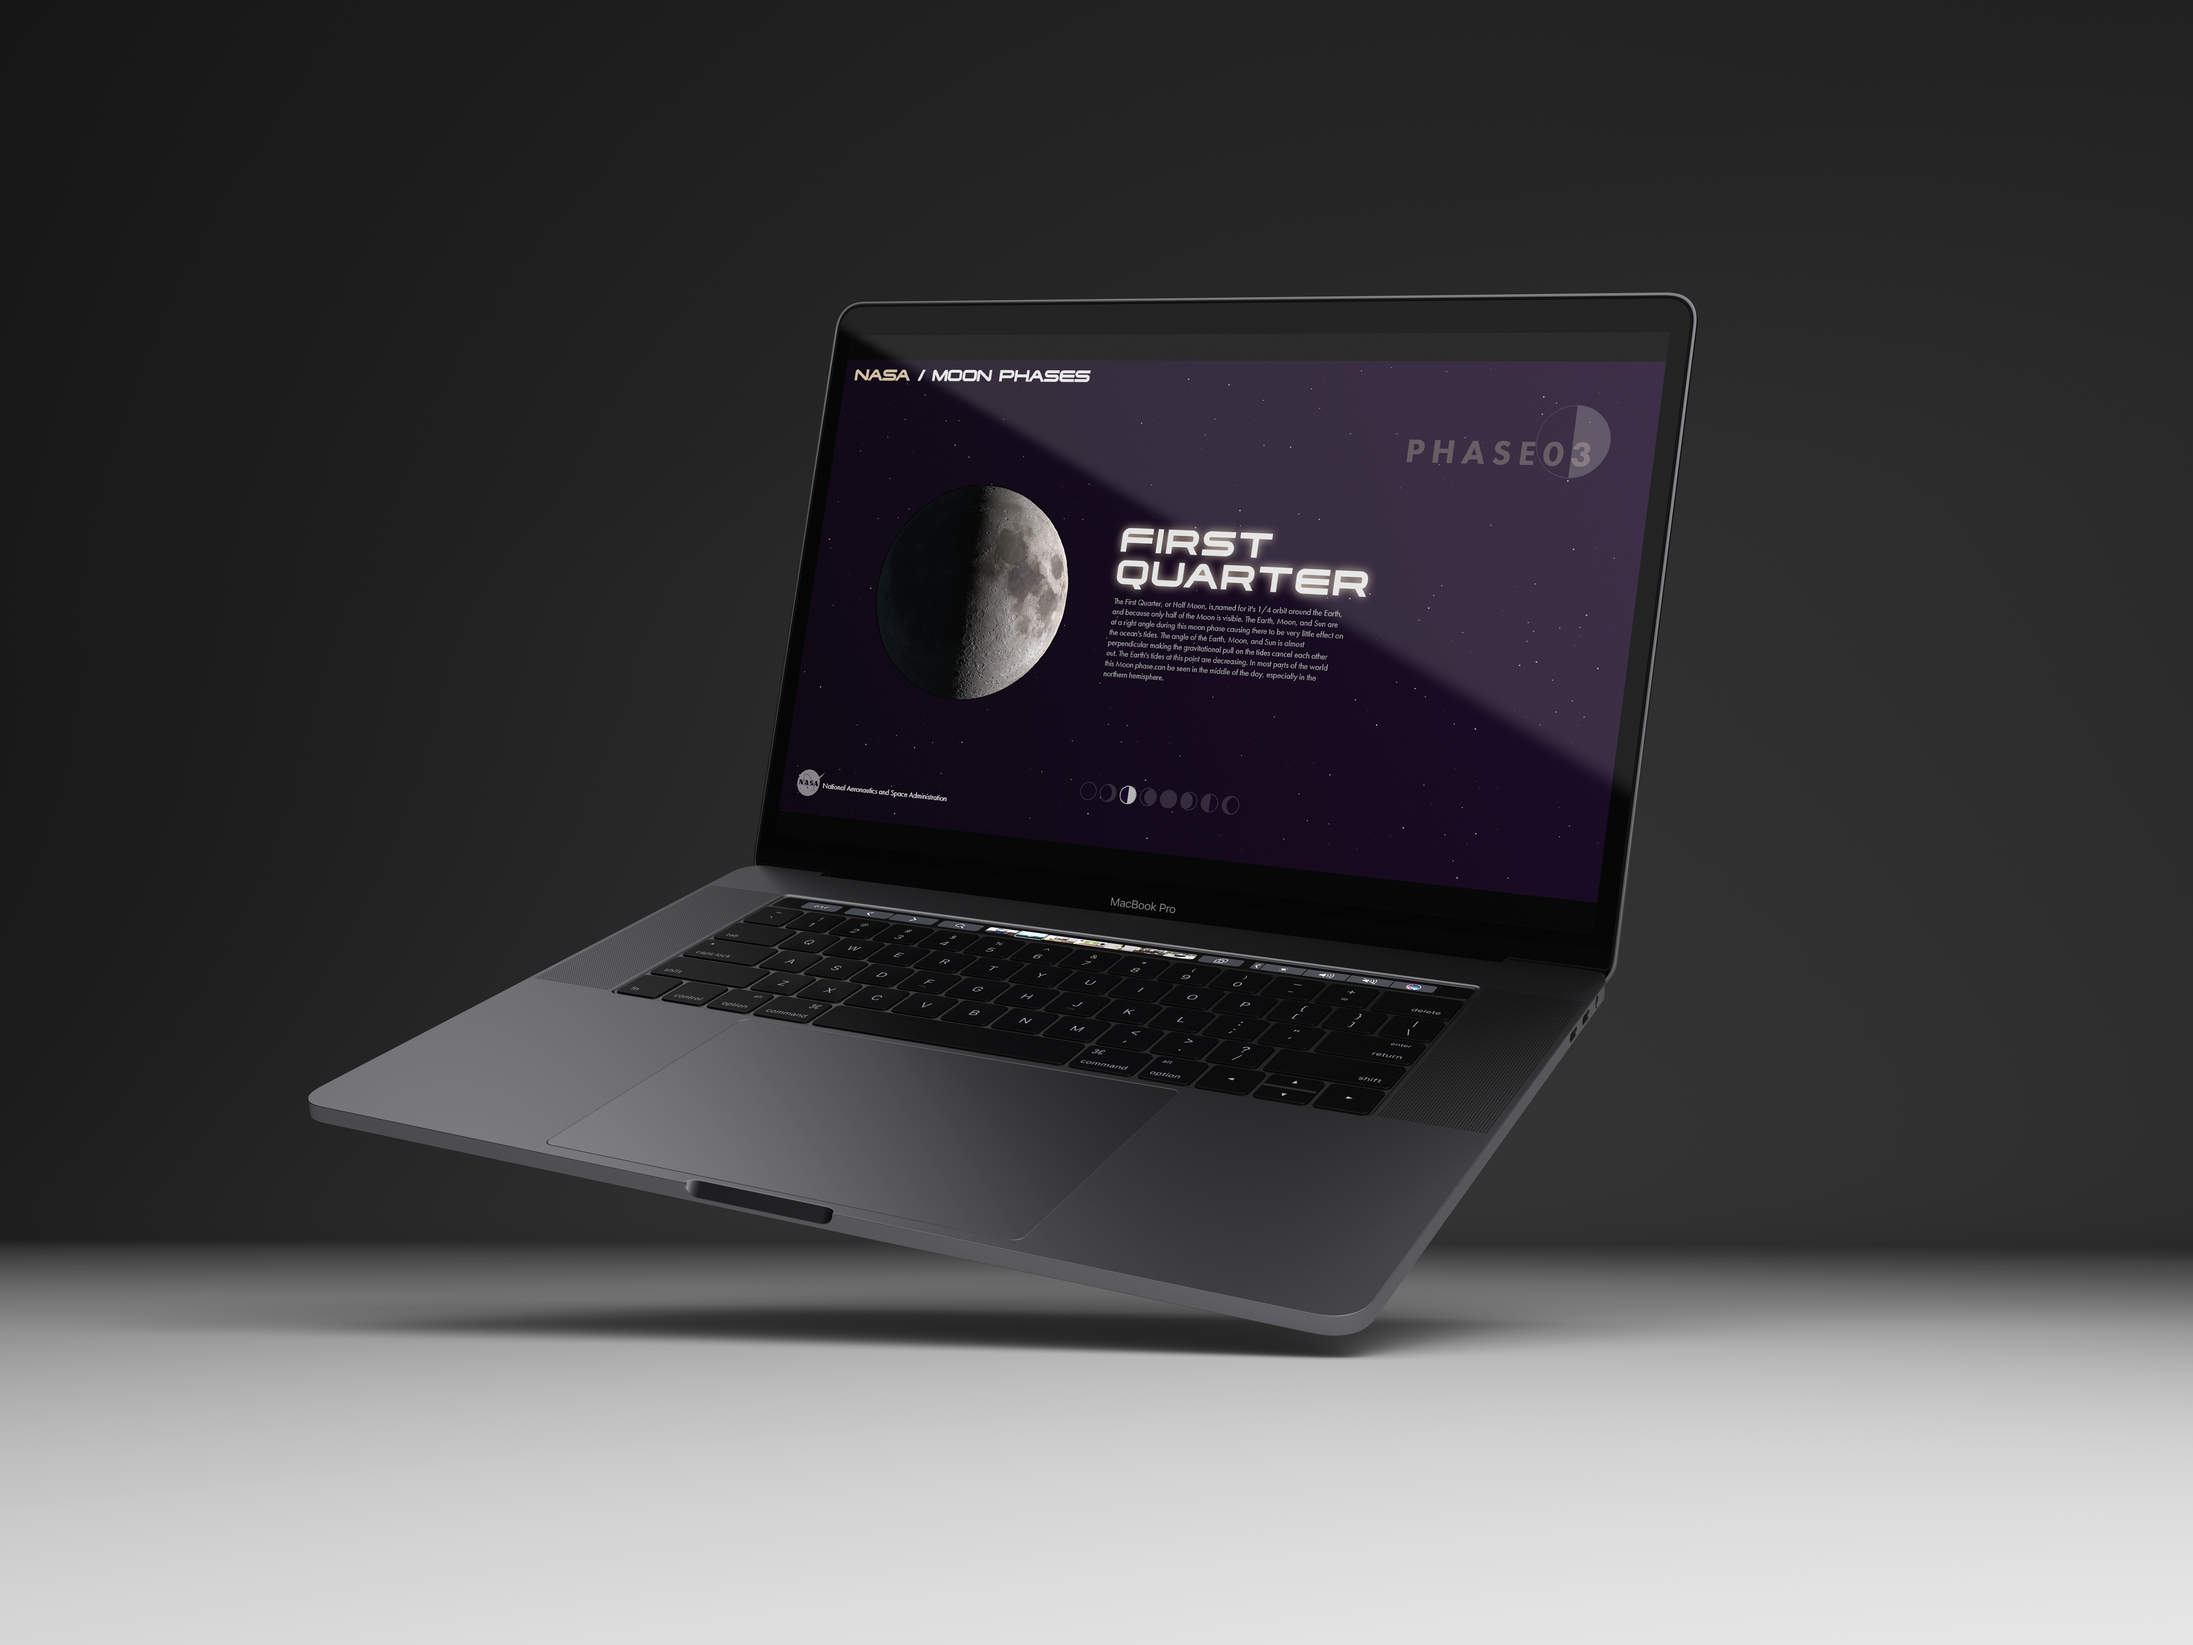
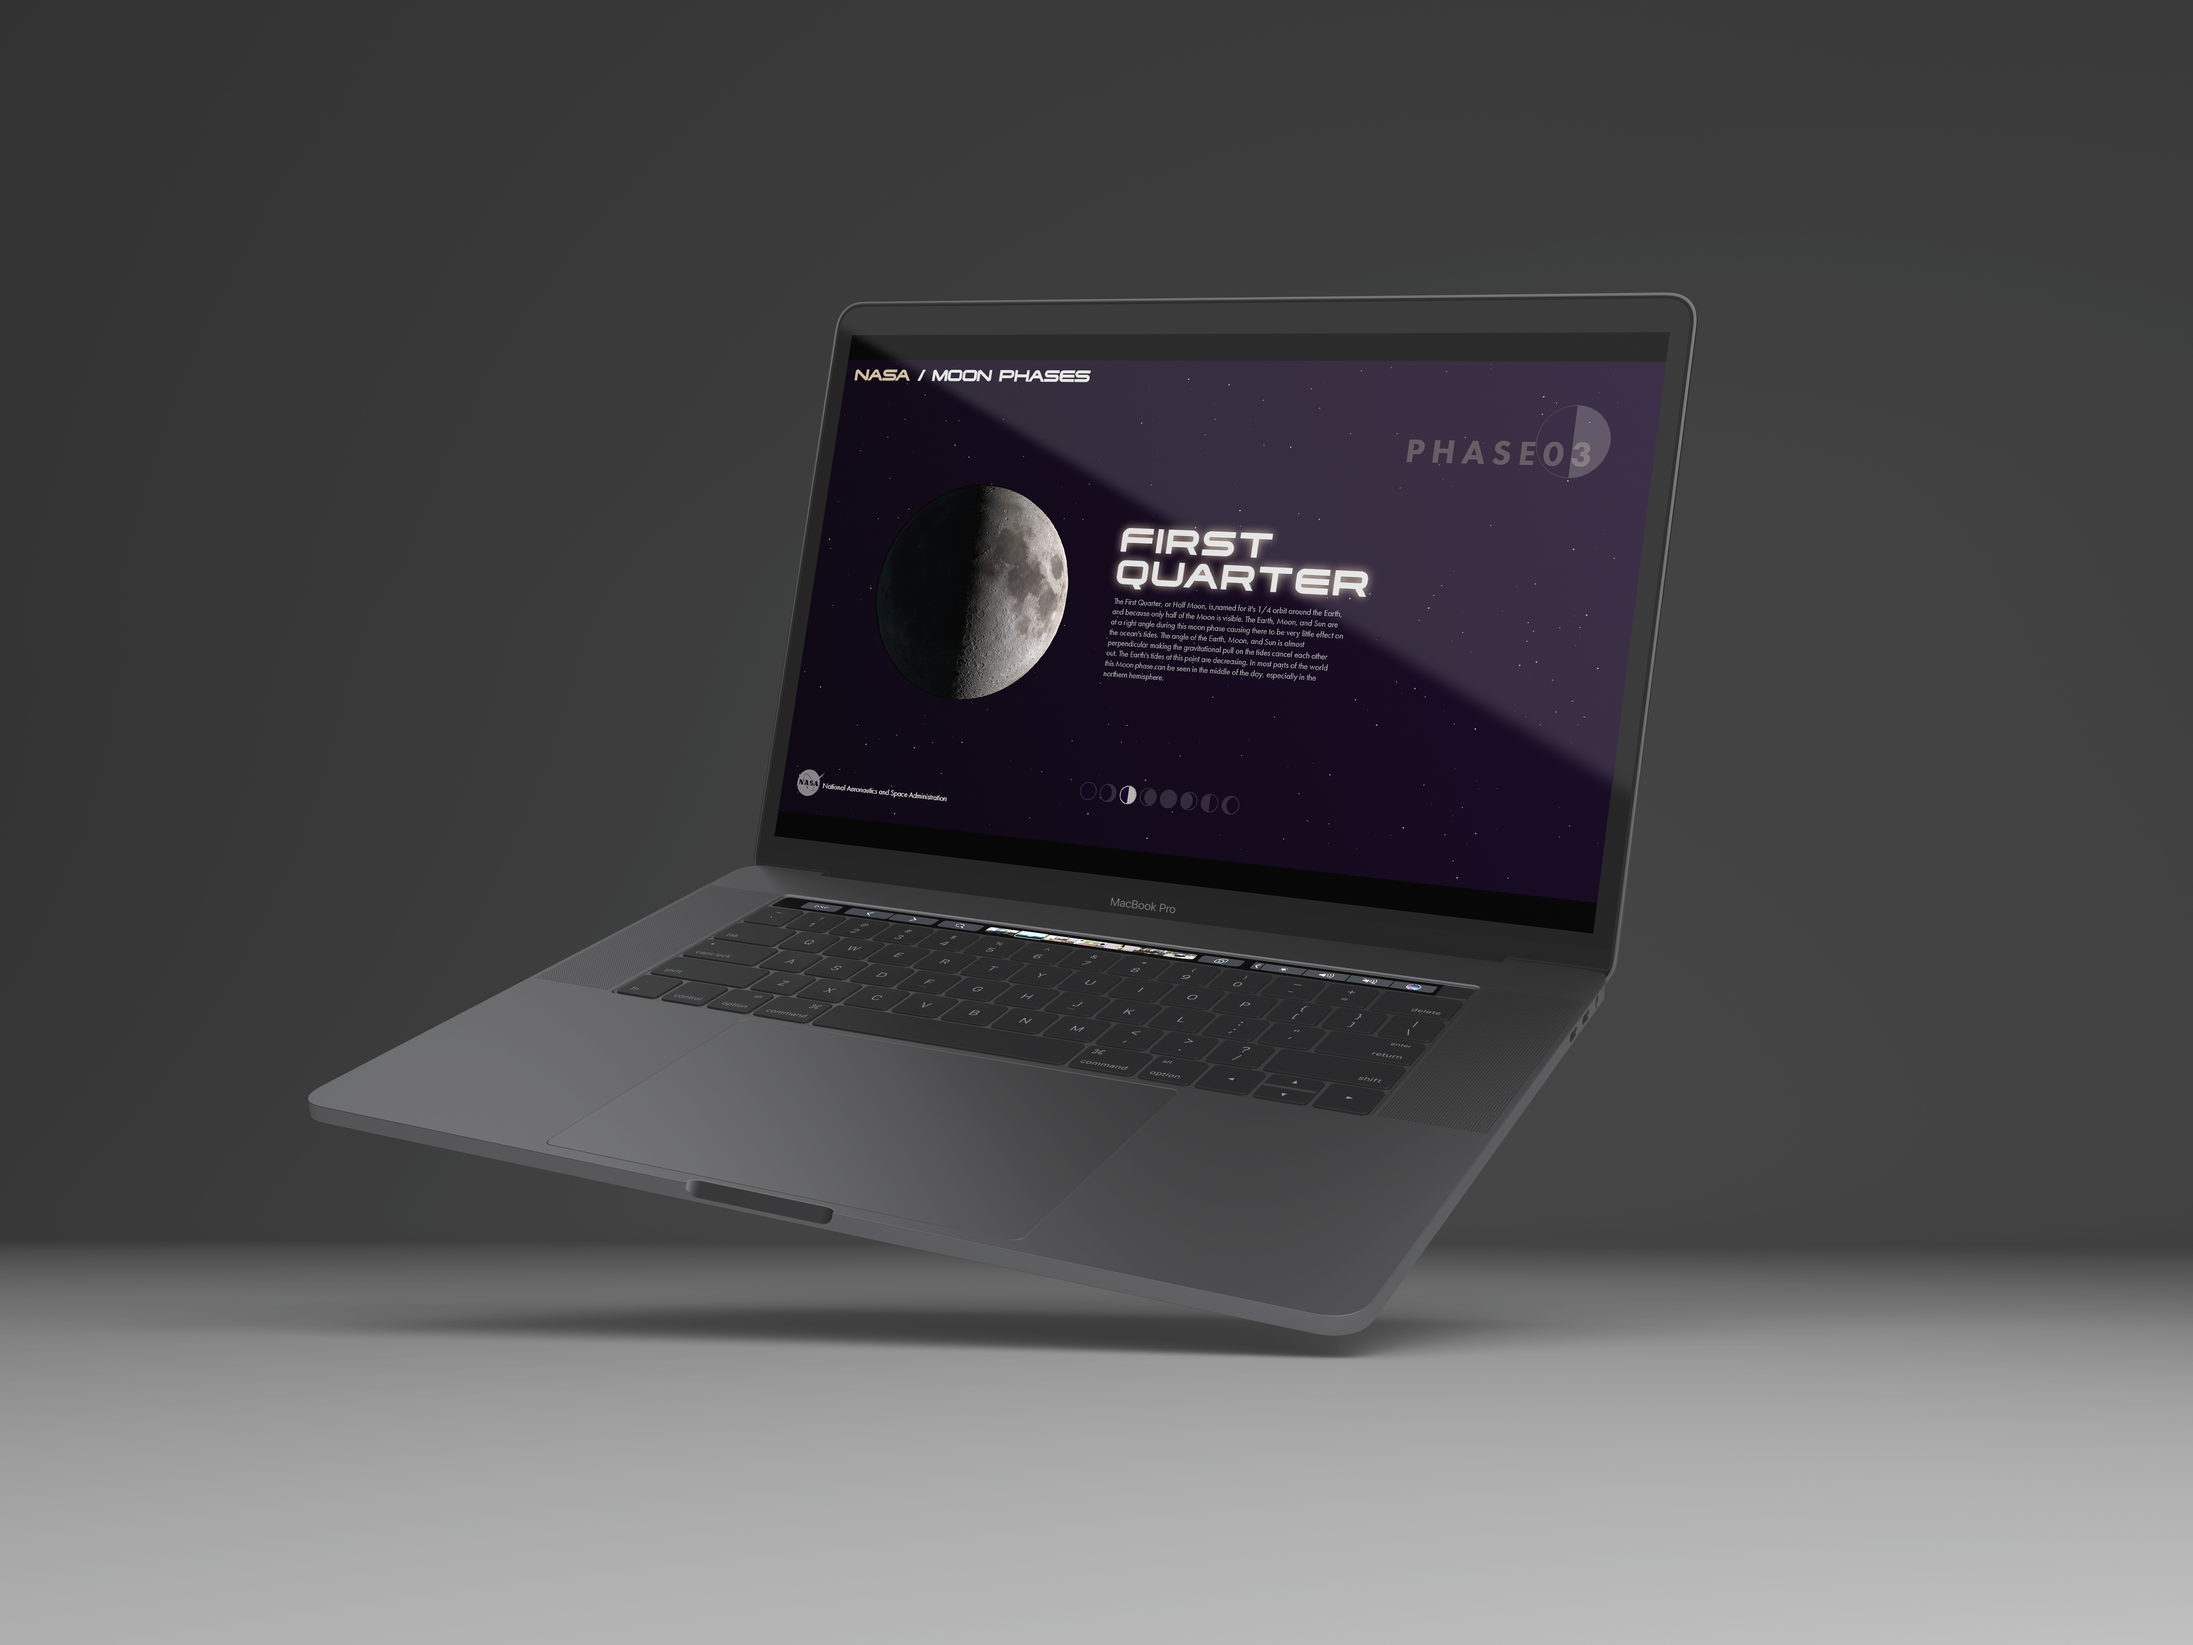
added illustrations; updated case studies

diff --git a/index.html b/index.html
@@ -7,7 +7,7 @@
     <title>Mari's Portfolio v2</title>
     <link rel="stylesheet" href="css/style.css">
     <script src="js/script.js"></script>
-    <!-- <script src="js/type.js"></script> -->
+    <script src="js/type.js"></script>
     <link rel="stylesheet" href="https://use.typekit.net/muz4avn.css">
     <link rel="stylesheet" href="https://use.typekit.net/dmm1cpy.css">
     <link rel="stylesheet" href="https://cdnjs.cloudflare.com/ajax/libs/font-awesome/6.4.2/css/all.min.css" />
@@ -41,7 +41,7 @@
             <div class="container">
                 <div class="title">
                     <h1>hello!</h1>
-                    <h2>i'm mari
+                    <h2>i'm
                         <span class="txt-rotate" data-period="2000"
                             data-rotate='[ "a designer.", "a developer.", "a creator.", "mari." ]'></span>
                     </h2>
@@ -97,7 +97,7 @@
                     <div class="card">
                         <a href="menuicon.html">
                             <div class="poster">
-                                <img src="images/menu-icon/navicon-coverphoto.png" alt="">
+                                <img src="images/menu-icon/menuicon-mockup.jpg" alt="">
                             </div>
                             <div class="details">
                                 <h1>Menu Icon</h1>
@@ -108,7 +108,7 @@
                     <div class="card">
                         <a href="themoon.html">
                             <div class="poster">
-                                <img src="images/the-moon/themoon-mockup-v1.jpg" alt="">
+                                <img src="images/the-moon/themoon-mockup-v2.jpg" alt="">
                             </div>
                             <div class="details">
                                 <h1>NASA Moon Website</h1>
@@ -123,7 +123,16 @@
                             </div>
                             <div class="details">
                                 <h1>QUEST mead</h1>
-
+                            </div>
+                        </a>
+                    </div>
+                    <div class="card">
+                        <a href="#">
+                            <div class="poster">
+                                <!-- <img src="images/illustartions/Untitled_Artwork 2.png" alt=""> -->
+                            </div>
+                            <div class="details">
+                                <h1>Illustrations</h1>
                             </div>
                         </a>
                     </div>

diff --git a/booktrilogy.html b/booktrilogy.html
@@ -44,9 +44,11 @@
                             <p>For this project I was assigned the task of designing three book covers inspired by the
                                 narratives of the “This is Criminal” podcast, hosted by Phoebe Judge, with the intention
                                 of
-                                creating a trilogy. I chose to listen to “How to Sell A Haunted House,” “Ian Manuel,”
+                                creating a trilogy. I chose to listen to <em>How to Sell A Haunted House</em>, <em>Ian
+                                    Manuel</em>,
                                 and
-                                “Sanctuary” as the episodes to base my&nbspdesigns&nbspon.</p>
+                                <em>Sanctuary</em> as the episodes to base my&nbspdesigns&nbspon.
+                            </p>
                         </div>
                         <div class="one-third casestudy-details">
                             <div class="casestudy-software">
@@ -123,9 +125,10 @@
                     <div class="one-whole body-copy">
                         <p>A unified book trilogy had been achieved using sculpted clay figures, color, type, and
                             the
-                            overall layout. “How To Sell A Haunted House” served as the foundation, upon which I
+                            overall layout. <em>How to Sell A Haunted House</em> served as the foundation, upon which I
                             crafted
-                            the covers for “Ian Manuel” and “Sanctuary,” utilizing a consistent design&nbspconcept.
+                            the covers for <em>Ian Manuel</em> and <em>Sanctuary</em> utilizing a consistent
+                            design&nbspconcept.
                         </p>
                     </div>
                     <div class="row">

diff --git a/quest.html b/quest.html
@@ -124,9 +124,12 @@
                     </div>
                 </div>
                 <div class="row casestudy-process caption">
-                    <h3 class="one-whole image-caption section-line">...</h3>
-                    <div class="one-third body-copy">
-
+                    <h3 class="one-whole image-caption section-line">Logo</h3>
+                    <div class="one-whole casestudy-process-images quest-images">
+                        <img src="images/quest/quest-assets-png/QuestLogo-1@72x.png" alt="">
+                        <img src="images/quest/quest-assets-png/QuestLogo-2@72x.png" alt="">
+                        <img src="images/quest/quest-assets-png/QuestLogo-3@72x.png" alt="">
+                        <img src="images/quest/quest-assets-png/QuestLogo-4@72x.png" alt="">
                     </div>
                     <div class="one-third casestudy-process-videos">
 

diff --git a/css/style.css b/css/style.css
@@ -517,8 +517,8 @@ body {
 .casestudy-main .casestudy-project-process .caption .section-line:after {
   content: "";
   width: 100%;
-  height: 5px;
-  border-bottom: 5px solid #333;
+  height: 2px;
+  border-bottom: 2px solid #333;
   z-index: -1;
 }
 .casestudy-main .casestudy-project-process .caption .section-line.swapped {
@@ -597,12 +597,12 @@ body {
 
 .fittree-type {
   display: flex;
-  flex-direction: column;
   align-items: center;
   justify-content: center;
 }
 .fittree-type img {
-  max-height: 100px;
+  max-height: 50px;
+  margin: 0.5em;
 }
 
 .fittree-images {
@@ -741,6 +741,14 @@ body {
 .quest-squares .square h4 {
   background-color: transparent;
   color: white;
+}
+
+.quest-images {
+  display: flex;
+  flex-direction: column;
+}
+.quest-images img {
+  max-height: 75px;
 }
 
 .casestudy-process .button {

diff --git a/scss/partials/_case-study.scss b/scss/partials/_case-study.scss
@@ -255,12 +255,13 @@
 
 .fittree-type {
     display: flex;
-    flex-direction: column;
+    // flex-direction: column;
     align-items: center;
     justify-content: center;
 
     img {
-        max-height: 100px;
+        max-height: 50px;
+        margin: .5em;
     }
 }
 
@@ -432,6 +433,15 @@
             background-color: transparent;
             color: white;
         }
+    }
+}
+
+.quest-images {
+    display: flex;
+    flex-direction: column;
+
+    img {
+        max-height: 75px;
     }
 }
 

diff --git a/scss/style.scss b/scss/style.scss
@@ -19,7 +19,7 @@ $script: "liebelotte-swell", sans-serif;
 $body: "apparat-light", sans-serif;
 $title: "the-seasons", sans-serif;
 
-$border-width: 5px;
+$border-width: 2px;
 
 
 
